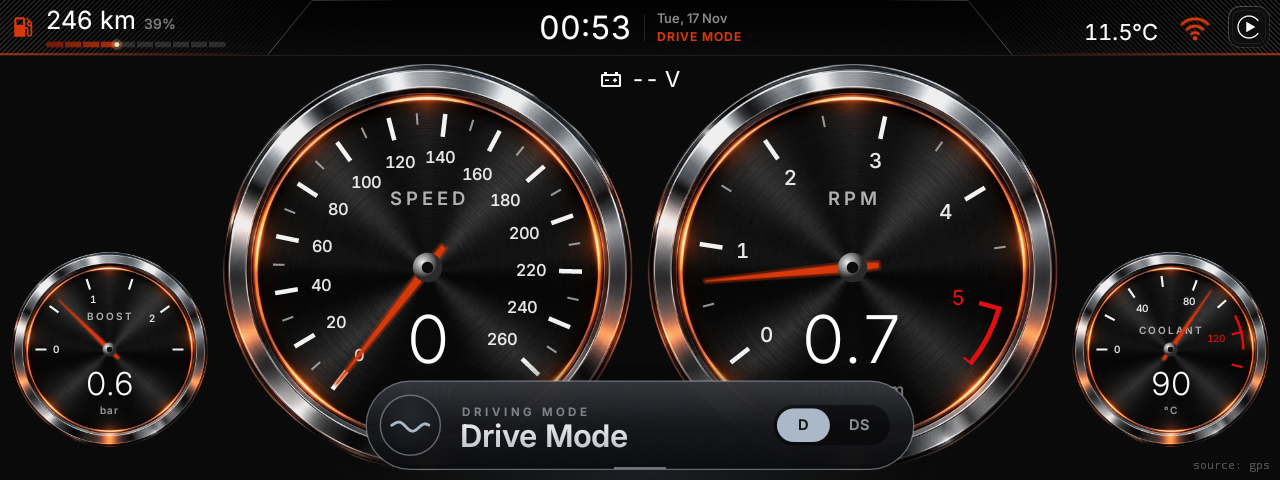
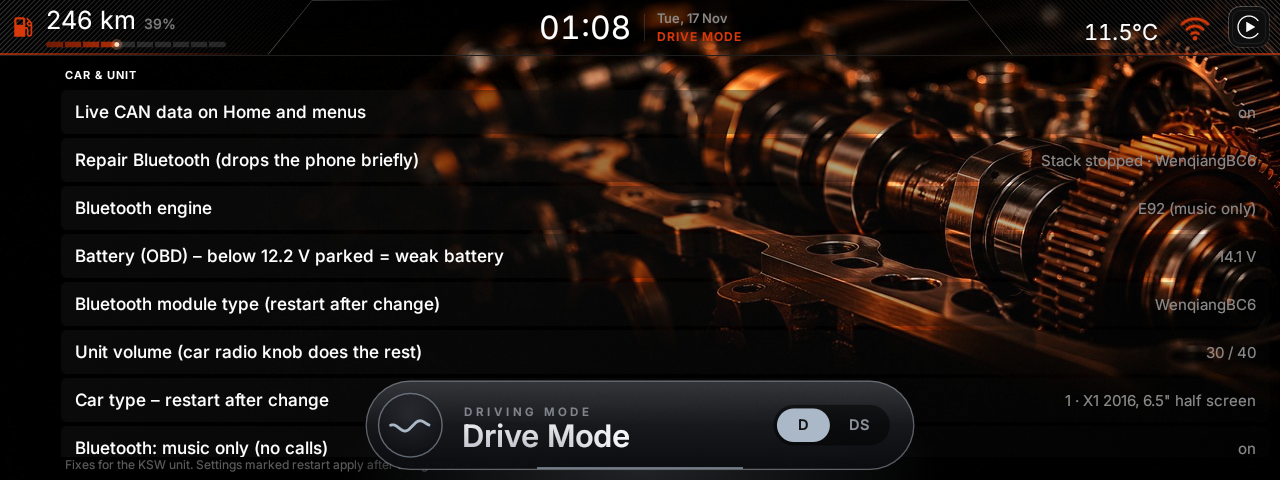
Sport card: simple tachometer badge (tapered arcs, thin needle) that climbs slowly into the red zone, bigger, 4 s; Drive keeps the wave. Settings > Car & unit: Live CAN data on Home and menus (on by default; off = only on the Dashboard)

diff --git a/app/src/main/java/ro/e92/launcher/ui/screens/ModeScreen.kt b/app/src/main/java/ro/e92/launcher/ui/screens/ModeScreen.kt
@@ -357,7 +357,7 @@ class ModeBannerView(
  * Cardul de mod de condus, jos pe mijloc, peste ecranul curent (care rămâne vizibil și primește
  * atingerile). Sticlă închisă cu:
  *  - o lumină care aleargă o dată în jurul marginii, apoi rămâne o margine stinsă în culoarea modului;
- *  - în stânga un ecuson animat: la DS trei săgeți care se aprind în val, la D o undă liniștită;
+ *  - în stânga un ecuson: la DS un turometru simplu care urcă în zona roșie, la D o undă liniștită;
  *  - la DS dâre de viteză care trec prin card la intrare, la D un halou care respiră;
  *  - numele modului, selectorul D / DS cu bucata aprinsă care alunecă la modul nou;
  *  - jos o linie subțire care se scurtează cât timp mai stă cardul pe ecran.
@@ -410,8 +410,12 @@ class ModeCardView(
     private val card = RectF()
     private val r = RectF()
     private val clip = Path()
+    private val needle = Path()
     private val wave = Path()
     private val kicker = context.getString(R.string.mode_kicker).uppercase()
+
+    /** DS stă mai mult: turometrul are nevoie de timp să urce (cerut 2026-11-17). */
+    private val total = if (sport) SPORT_TOTAL_MS else TOTAL_MS
 
     private var startedAt = 0L
     private var running = false
@@ -437,7 +441,7 @@ class ModeCardView(
 
         val enter = ease(now, 0f, ENTER_MS)
         val pop = back(now, 0f, ENTER_MS + 120f)
-        val exit = ease(now, TOTAL_MS - EXIT_MS, EXIT_MS)
+        val exit = ease(now, total - EXIT_MS, EXIT_MS)
         val alpha = enter * (1f - exit)
         if (alpha <= 0f) return tick(now)
         val a255 = (255 * alpha).toInt()
@@ -496,7 +500,7 @@ class ModeCardView(
         fillPaint.shader = null
         if (sport) drawStreaks(canvas, now, u, alpha)
         // Timpul rămas: o linie subțire pe fundul cardului care se scurtează spre centru.
-        val left = 1f - ((now - ENTER_MS) / (TOTAL_MS - EXIT_MS - ENTER_MS)).coerceIn(0f, 1f)
+        val left = 1f - ((now - ENTER_MS) / (total - EXIT_MS - ENTER_MS)).coerceIn(0f, 1f)
         if (left > 0f) {
             val half = (cw / 2f - rad) * left
             fillPaint.color = withAlpha(accent, (150 * alpha).toInt())
@@ -528,7 +532,7 @@ class ModeCardView(
         }
 
         // ---- ecusonul din stânga ----
-        val bR = ch * 0.34f
+        val bR = ch * if (sport) 0.42f else 0.36f
         val bcx = card.left + rad
         fillPaint.shader = RadialGradient(
             bcx, cy - bR * 0.3f, bR * 1.2f,
@@ -540,7 +544,7 @@ class ModeCardView(
         strokePaint.strokeWidth = 1.6f * u
         strokePaint.color = withAlpha(accent, (130 * alpha).toInt())
         canvas.drawCircle(bcx, cy, bR, strokePaint)
-        if (sport) drawChevrons(canvas, now, bcx, cy, bR, u, alpha) else drawWave(canvas, now, bcx, cy, bR, u, alpha)
+        if (sport) drawGauge(canvas, now, bcx, cy, bR, u, alpha) else drawWave(canvas, now, bcx, cy, bR, u, alpha)
 
         // ---- textul ----
         val tx = bcx + bR + 22f * u
@@ -601,31 +605,129 @@ class ModeCardView(
         tick(now)
     }
 
-    /** DS: trei săgeți spre dreapta; un val de lumină trece prin ele, de două ori, apoi rămân aprinse. */
-    private fun drawChevrons(canvas: Canvas, now: Float, cx: Float, cy: Float, r: Float, u: Float, alpha: Float) {
-        val size = r * 0.36f
-        val step = r * 0.36f
-        iconPaint.strokeWidth = 3.4f * u
-        for (i in 0..2) {
-            val x = cx - step + step * i - size * 0.2f
-            val phase = ((now - CHEV_AT_MS - i * 110f) / 640f)
-            val pulse = if (phase in 0f..2f) {
-                val p = phase % 1f
-                if (p < 0.35f) p / 0.35f else 1f - (p - 0.35f) / 0.65f
-            } else 0f
-            val on = ease(now, CHEV_AT_MS + i * 110f, 260f)
-            val base = 0.35f + 0.65f * on
-            val c = blend(accent, Color.WHITE, pulse * 0.7f)
-            iconPaint.color = withAlpha(c, (255 * alpha * base).toInt())
-            canvas.drawLine(x - size * 0.5f, cy - size, x + size * 0.5f, cy, iconPaint)
-            canvas.drawLine(x + size * 0.5f, cy, x - size * 0.5f, cy + size, iconPaint)
+    /**
+     * DS: turometru după desenul ales de utilizator (2026-11-17): două arcuri subțiri, groase sus
+     * și ascuțite la capete, și un ac subțire. Arcurile se trag de la stânga la dreapta, acul urcă
+     * în viteză, scade puțin ca la o schimbare de treaptă, apoi intră în zona roșie și tremură
+     * acolo; arcul interior se umple cu portocaliu după ac.
+     */
+    private fun drawGauge(canvas: Canvas, now: Float, cx: Float, cy: Float, bR: Float, u: Float, alpha: Float) {
+        val rOut = bR * 0.72f
+        val rIn = bR * 0.54f
+        val c0 = cy + rOut * 0.42f
+        val reveal = ease(now, GAUGE_AT_MS, 420f)
+        if (reveal <= 0f) return
+        val a255 = (255 * alpha).toInt()
+
+        val outer = crescent(cx, c0, rOut, 3.3f * u)
+        val inner = crescent(cx, c0, rIn, 2.7f * u)
+
+        // Arcurile apar de la stânga la dreapta.
+        canvas.save()
+        canvas.clipPath(wedge(cx, c0, rOut * 1.4f, 180f, 180f * reveal))
+        fillPaint.color = Color.argb((235 * alpha).toInt(), 238, 240, 244)
+        canvas.drawPath(outer, fillPaint)
+        fillPaint.color = Color.argb((150 * alpha).toInt(), 238, 240, 244)
+        canvas.drawPath(inner, fillPaint)
+        canvas.restore()
+
+        val f = revLevel(now - GAUGE_AT_MS)
+        val angle = 180f + 180f * f
+
+        run {
+            // Zona roșie: capătul din dreapta al arcului exterior; se aprinde cât acul e în ea.
+            val inRed = ((f - RED_FROM) / (1f - RED_FROM)).coerceIn(0f, 1f)
+            val flicker = 0.75f + 0.25f * kotlin.math.sin(now / 38f).toFloat()
+            canvas.save()
+            canvas.clipPath(wedge(cx, c0, rOut * 1.4f, 180f + 180f * RED_FROM, 180f * (1f - RED_FROM) * reveal))
+            fillPaint.color = Color.argb((255 * alpha * (0.55f + 0.45f * inRed * flicker)).toInt(), 232, 36, 27)
+            canvas.drawPath(outer, fillPaint)
+            canvas.restore()
+            // Arcul interior se umple după ac.
+            canvas.save()
+            canvas.clipPath(wedge(cx, c0, rOut * 1.4f, 180f, angle - 180f))
+            fillPaint.color = withAlpha(accent, a255)
+            canvas.drawPath(inner, fillPaint)
+            canvas.restore()
         }
+
+        // Acul: subțire, mai lat la bază, cu o coadă scurtă dincolo de centru.
+        val rad = Math.toRadians(angle.toDouble())
+        val dx = kotlin.math.cos(rad).toFloat()
+        val dy = kotlin.math.sin(rad).toFloat()
+        val len = rIn * 0.95f
+        val tail = rIn * 0.22f
+        val wb = 2.1f * u
+        val wt = 0.6f * u
+        needle.reset()
+        needle.moveTo(cx - dx * tail - dy * wb, c0 - dy * tail + dx * wb)
+        needle.lineTo(cx + dx * len - dy * wt, c0 + dy * len + dx * wt)
+        needle.lineTo(cx + dx * len + dy * wt, c0 + dy * len - dx * wt)
+        needle.lineTo(cx - dx * tail + dy * wb, c0 - dy * tail - dx * wb)
+        needle.close()
+        fillPaint.color = Color.argb(a255, 245, 246, 248)
+        canvas.drawPath(needle, fillPaint)
+    }
+
+    /**
+     * Turația acului la DS, 0 = stânga, 1 = capătul din dreapta: urcă repede, scade puțin la
+     * schimbarea de treaptă, urcă în zona roșie și tremură acolo.
+     */
+    private fun revLevel(t: Float): Float {
+        val s = t - NEEDLE_DELAY_MS
+        if (s <= 0f) return 0.02f
+        return when {
+            // Urcă lin, ca o turație care crește.
+            s < 1_000f -> 0.02f + 0.6f * smooth(s / 1_000f)
+            // Schimbarea de treaptă: scade puțin.
+            s < 1_300f -> 0.62f - 0.1f * smooth((s - 1_000f) / 300f)
+            // Urcă din nou, până în zona roșie.
+            s < 2_400f -> 0.52f + 0.42f * smooth((s - 1_300f) / 1_100f)
+            // Stă în zona roșie, cu un tremur abia vizibil.
+            else -> 0.94f + 0.006f * kotlin.math.sin((s - 2_400f) / 55f).toFloat()
+        }
+    }
+
+    /** Pornește lin și se oprește lin. */
+    private fun smooth(t: Float): Float {
+        val x = t.coerceIn(0f, 1f)
+        return x * x * (3f - 2f * x)
+    }
+
+    private fun easeT(t: Float): Float {
+        val x = t.coerceIn(0f, 1f)
+        return 1f - (1f - x) * (1f - x) * (1f - x)
+    }
+
+    /**
+     * Semicercul de sus, subțiat spre capete: discul de sus minus un cerc puțin mai mic, coborât.
+     * Sus are grosimea [t], la capete rămâne o treime, ca zona roșie să se vadă.
+     */
+    private fun crescent(cx: Float, cy: Float, r: Float, t: Float): Path {
+        val half = Path()
+        half.moveTo(cx - r, cy)
+        half.arcTo(RectF(cx - r, cy - r, cx + r, cy + r), 180f, 180f, false)
+        half.close()
+        val cut = Path()
+        cut.addCircle(cx, cy + t * 0.67f, r - t * 0.33f, Path.Direction.CW)
+        half.op(cut, Path.Op.DIFFERENCE)
+        return half
+    }
+
+    /** O felie din cerc, pentru tăiat arcurile pe unghi. */
+    private fun wedge(cx: Float, cy: Float, r: Float, start: Float, sweep: Float): Path {
+        val p = Path()
+        if (sweep <= 0f) return p
+        p.moveTo(cx, cy)
+        p.arcTo(RectF(cx - r, cy - r, cx + r, cy + r), start, sweep, false)
+        p.close()
+        return p
     }
 
     /** D: o undă lină care curge încet spre dreapta. */
     private fun drawWave(canvas: Canvas, now: Float, cx: Float, cy: Float, r: Float, u: Float, alpha: Float) {
         val half = r * 0.62f
-        val amp = r * 0.2f * ease(now, CHEV_AT_MS, 500f)
+        val amp = r * 0.2f * ease(now, GAUGE_AT_MS, 500f)
         val shift = now / 380f
         wave.reset()
         var first = true
@@ -672,7 +774,7 @@ class ModeCardView(
 
     private fun tick(now: Float) {
         if (!running) return
-        if (now >= TOTAL_MS) {
+        if (now >= total) {
             if (!finished) {
                 finished = true
                 running = false
@@ -706,11 +808,16 @@ class ModeCardView(
 
     private companion object {
         const val TOTAL_MS = ModeBannerView.TOTAL_MS
+        const val SPORT_TOTAL_MS = 4_000f
         const val ENTER_MS = 380f
         const val EXIT_MS = 320f
         const val RUN_AT_MS = 180f
         const val RUN_MS = 1_000f
-        const val CHEV_AT_MS = 260f
+        const val GAUGE_AT_MS = 200f
+        /** Acul pornește după ce arcurile s-au tras. */
+        const val NEEDLE_DELAY_MS = 350f
+        /** De unde începe zona roșie, ca parte din arc. */
+        const val RED_FROM = 0.84f
         const val TEXT_AT_MS = 140f
         const val TEXT_MS = 380f
         const val SLIDE_AT_MS = 360f

diff --git a/app/src/main/java/ro/e92/launcher/core/Prefs.kt b/app/src/main/java/ro/e92/launcher/core/Prefs.kt
@@ -140,6 +140,14 @@ class Prefs(context: Context) {
         get() = sp.getInt(KEY_BT_PROFILE_TRIED, 0)
         set(value) = sp.edit().putInt(KEY_BT_PROFILE_TRIED, value).apply()
 
+    /**
+     * Cadrele CAN cu motorul pornit în orice ecran (scenele de mod oriunde). Oprit: doar pe
+     * Dashboard, în marșarier și până vine ora din bord, ca înainte de 2026-11-17.
+     */
+    var liveCanEverywhere: Boolean
+        get() = sp.getBoolean(KEY_LIVE_CAN_EVERYWHERE, true)
+        set(value) = sp.edit().putBoolean(KEY_LIVE_CAN_EVERYWHERE, value).apply()
+
     /** Marșarier: scena noastră în locul ferestrei KSW. */
     var reverseScene: Boolean
         get() = sp.getBoolean(KEY_REVERSE_SCENE, false)
@@ -337,6 +345,7 @@ class Prefs(context: Context) {
         const val THEME_RED = 1
         const val THEME_MONO = 2
         private const val KEY_REVERSE_SCENE = "reverse_scene"
+        private const val KEY_LIVE_CAN_EVERYWHERE = "live_can_everywhere"
         private const val KEY_MCU_CAMERA = "mcu_camera_type"
         private const val KEY_MCU_TRACK = "mcu_track"
         private const val KEY_MCU_RADAR = "mcu_radar"

diff --git a/app/src/main/java/ro/e92/launcher/can/KswCarDataSource.kt b/app/src/main/java/ro/e92/launcher/can/KswCarDataSource.kt
@@ -206,7 +206,9 @@ class KswCarDataSource(
         if (!engineRunning) clockGaveUp = false
         // Cu motorul pornit, în orice ecran: scenele de mod (sisteme, Drive Sport) citesc cadrele
         // 0x19E și 0x1D2 tot drumul (cerut 2026-11-17). Cu contactul pus și motorul oprit, nimic.
-        val wanted = reverse || waitingClock || engineRunning
+        // Comutatorul din Setări (Car & unit): oprit, cadrele merg doar cu Dashboard-ul deschis.
+        val wanted = reverse || waitingClock ||
+            (engineRunning && (Services.prefs.liveCanEverywhere || dashboardOpen))
         // Fără legătura cu EventCenter nu trimitem nimic și nu ținem minte nimic: altfel
         // „pornite" rămânea notat fără să fi plecat comanda (marșarier imediat după pornire).
         val binder = service ?: return

diff --git a/app/src/main/java/ro/e92/launcher/ui/screens/SettingsScreen.kt b/app/src/main/java/ro/e92/launcher/ui/screens/SettingsScreen.kt
@@ -101,6 +101,16 @@ class SettingsScreen(
         val prefs = Services.prefs
         return listOfNotNull(
             DetailRow(
+                id = "car_live_can",
+                title = context.getString(R.string.set_live_can),
+                value = context.getString(if (prefs.liveCanEverywhere) R.string.on else R.string.off),
+                onActivate = {
+                    prefs.liveCanEverywhere = !prefs.liveCanEverywhere
+                    Services.kswCar?.updateCanForwarding()
+                    reloadDetail("car_live_can")
+                }
+            ),
+            DetailRow(
                 id = "car_bt_repair",
                 title = context.getString(R.string.set_bt_repair),
                 value = ksw.stackStatus() + " · " + KswSettings.btTypeLabel(prefs.btModuleType),
